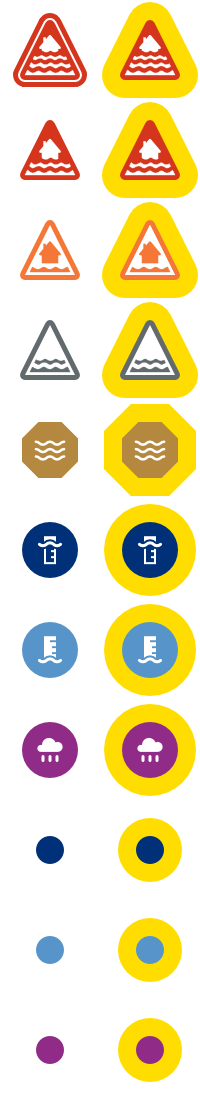
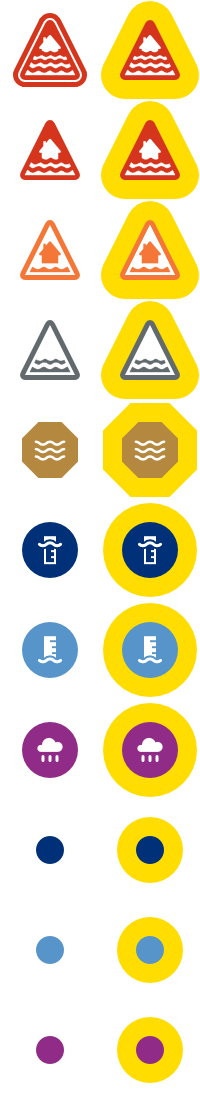
Stuff

diff --git a/app/assets/javascripts/components/map/styles.js b/app/assets/javascripts/components/map/styles.js
@@ -25,40 +25,36 @@ window.flood.maps.styles = {
 
     switch (state) {
       case 11: // Severe warning
-        strokeColour = isSelected ? '#FFDD00' : '#D4351C'
-        fillColour = pattern('severe', isSelected)
-        zIndex = 5
+        strokeColour = '#D4351C'
+        fillColour = pattern('severe')
+        zIndex = 30
         break
       case 12: // Warning
-        strokeColour = isSelected ? '#FFDD00' : '#D4351C'
-        fillColour = pattern('warning', isSelected)
-        zIndex = 4
+        strokeColour = '#D4351C'
+        fillColour = pattern('warning')
+        zIndex = 20
         break
       case 13: // Alert
-        strokeColour = isSelected ? '#FFDD00' : '#F47738'
-        fillColour = pattern('alert', isSelected)
-        zIndex = isGroundwater ? 1 : 2
+        strokeColour = '#F47738'
+        fillColour = pattern('alert')
+        zIndex = isGroundwater ? 5 : 10
         break
       default: // Removed or inactive
-        strokeColour = isSelected ? '#FFDD00' : '#626A6E'
-        fillColour = pattern('removed', isSelected)
-        zIndex = 3
+        strokeColour = '#626A6E'
+        fillColour = pattern('removed')
+        zIndex = 0
     }
+    zIndex = isSelected ? zIndex + 1 : zIndex
 
-    // Generate style
-    return new Style({
-      fill: new Fill({
-        color: fillColour
-      }),
-      stroke: new Stroke({
-        color: strokeColour,
-        width: 1,
-        miterLimit: 2,
-        lineJoin: 'round',
-        lineDash: [0, 0]
-      }),
-      zIndex: zIndex
-    })
+    const selectedStroke = new Style({ stroke: new Stroke({ color: '#FFDD00', width: 12 }), zIndex: zIndex })
+    const stroke = new Style({ stroke: new Stroke({ color: strokeColour, width: 2 }), zIndex: zIndex })
+    const fill = new Style({ fill: new Fill({ color: fillColour }), zIndex: zIndex })
+
+    if (isSelected) {
+      return [selectedStroke, stroke, fill]
+    } else {
+      return [stroke, fill]
+    }
   },
 
   // Warning centroids
@@ -126,7 +122,7 @@ window.flood.maps.styles = {
   }
 }
 
-const pattern = (style, isSelected) => {
+const pattern = (style) => {
   const canvas = document.createElement('canvas')
   const ctx = canvas.getContext('2d')
   const dpr = window.devicePixelRatio || 1
@@ -135,7 +131,7 @@ const pattern = (style, isSelected) => {
   ctx.scale(dpr, dpr)
   switch (style) {
     case 'severe':
-      ctx.fillStyle = isSelected ? '#FFDD00' : '#D4351C'
+      ctx.fillStyle = '#D4351C'
       ctx.fillRect(0, 0, 8, 8)
       ctx.beginPath()
       ctx.fillStyle = '#ffffff'
@@ -152,7 +148,7 @@ const pattern = (style, isSelected) => {
       ctx.fill()
       break
     case 'warning':
-      ctx.fillStyle = isSelected ? '#FFDD00' : '#D4351C'
+      ctx.fillStyle = '#D4351C'
       ctx.fillRect(0, 0, 8, 8)
       ctx.beginPath()
       ctx.fillStyle = '#ffffff'
@@ -182,7 +178,7 @@ const pattern = (style, isSelected) => {
       ctx.fillStyle = '#ffffff'
       ctx.fillRect(0, 0, 8, 8)
       ctx.beginPath()
-      ctx.fillStyle = isSelected ? '#FFDD00' : '#F47738'
+      ctx.fillStyle = '#F47738'
       ctx.moveTo(0, 3.3)
       ctx.lineTo(0, 4.7)
       ctx.lineTo(4.7, 0)
@@ -199,7 +195,7 @@ const pattern = (style, isSelected) => {
       ctx.fillStyle = '#ffffff'
       ctx.fillRect(0, 0, 8, 8)
       ctx.beginPath()
-      ctx.fillStyle = isSelected ? '#FFDD00' : '#626A6E'
+      ctx.fillStyle = '#626A6E'
       ctx.arc(4, 4, 1, 0, 2 * Math.PI)
       ctx.closePath()
       ctx.fill()

diff --git a/app/assets/javascripts/pages/index.js b/app/assets/javascripts/pages/index.js
@@ -19,16 +19,23 @@ window.flood.maps.createLiveMap('map1', { // Button Id (Required)
   layers: 'ts,tw,ta,ti', // Default layers to display (tr removed)
   // centre: [-1.54857, 53.80128], // Optional initial center will be converted to extent in querystring
   // zoom: 10 // Optional initial zoom level
-  extent: [-1.326567, 53.871946, -0.953128, 54.149476], // LonLat array for initial extent
-  selectedId: 'ta.122WAF946' // Optional intial selected feature
+  // extent: [-1.326567, 53.871946, -0.953128, 54.149476], // LonLat array for initial extent
+  // selectedId: 'ta.122WAF946' // Optional intial selected feature
   /*
   targetArea: {
-    id: 'ta.011FWFNC3A',
+    id: 'ta.122WAF946',
     name: 'River Eden at Carlisle, Rickerby Park, Swifts and Stoneyholme Golf Courses',
     centre: [-2.90990, 54.90160], // LonLat for centroid,
     polygon: window.flood.model.geometry.coordinates // MultiPolygon coordinates array for boundary
   }
   */
+  targetArea: {
+    id: 'ta.122FWF723',
+    name: 'River Ouse at Naburn Lock',
+    centre: [-1.09613548180462, 53.8939176939008], // LonLat for centroid,
+    polygon: window.flood.model.geometry.coordinates // MultiPolygon coordinates array for boundary
+  },
+  selectedId: 'ta.122FWF723'
 })
 
 // Create a second map

diff --git a/app/assets/javascripts/pages/model.js b/app/assets/javascripts/pages/model.js
@@ -1,6 +1,14 @@
 window.flood.model = {
   'geometry': {
     'type': 'MultiPolygon',
+    'coordinates': [[[[-1.09721983118105, 53.8940985917382], [-1.09686986410665, 53.8938219134044], [-1.09526070751046, 53.8944284803231], [-1.09349551281809, 53.8947070461753], [-1.09336727046708, 53.8942390808386], [-1.09643590203447, 53.8934788234845], [-1.0963819501214, 53.893436168661], [-1.09754724350827, 53.8930225187887], [-1.09854938710859, 53.8938299360004], [-1.0978089272499, 53.8943007872187], [-1.09774711725051, 53.8943452501235], [-1.09721983118105, 53.8940985917382]]]]
+  }
+}
+
+/*
+window.flood.model = {
+  'geometry': {
+    'type': 'MultiPolygon',
     'coordinates': [
       [
         [
@@ -1053,3 +1061,4 @@ window.flood.model = {
     ]
   }
 }
+*/

diff --git a/app/assets/sass/components/map/_map.scss b/app/assets/sass/components/map/_map.scss
@@ -26,13 +26,15 @@
     outline: 3px solid $govuk-focus-colour;
     z-index: 99;
   }
+  background-color: #A9D3DF;
+}
+.defra-map-viewport {
   -webkit-touch-callout: none;
   -webkit-user-select: none;
   -khtml-user-select: none;
   -moz-user-select: none;
   -ms-user-select: none;
   user-select: none;
-  background-color: #A9D3DF;
 }
 .defra-map-key {
   display:none;
